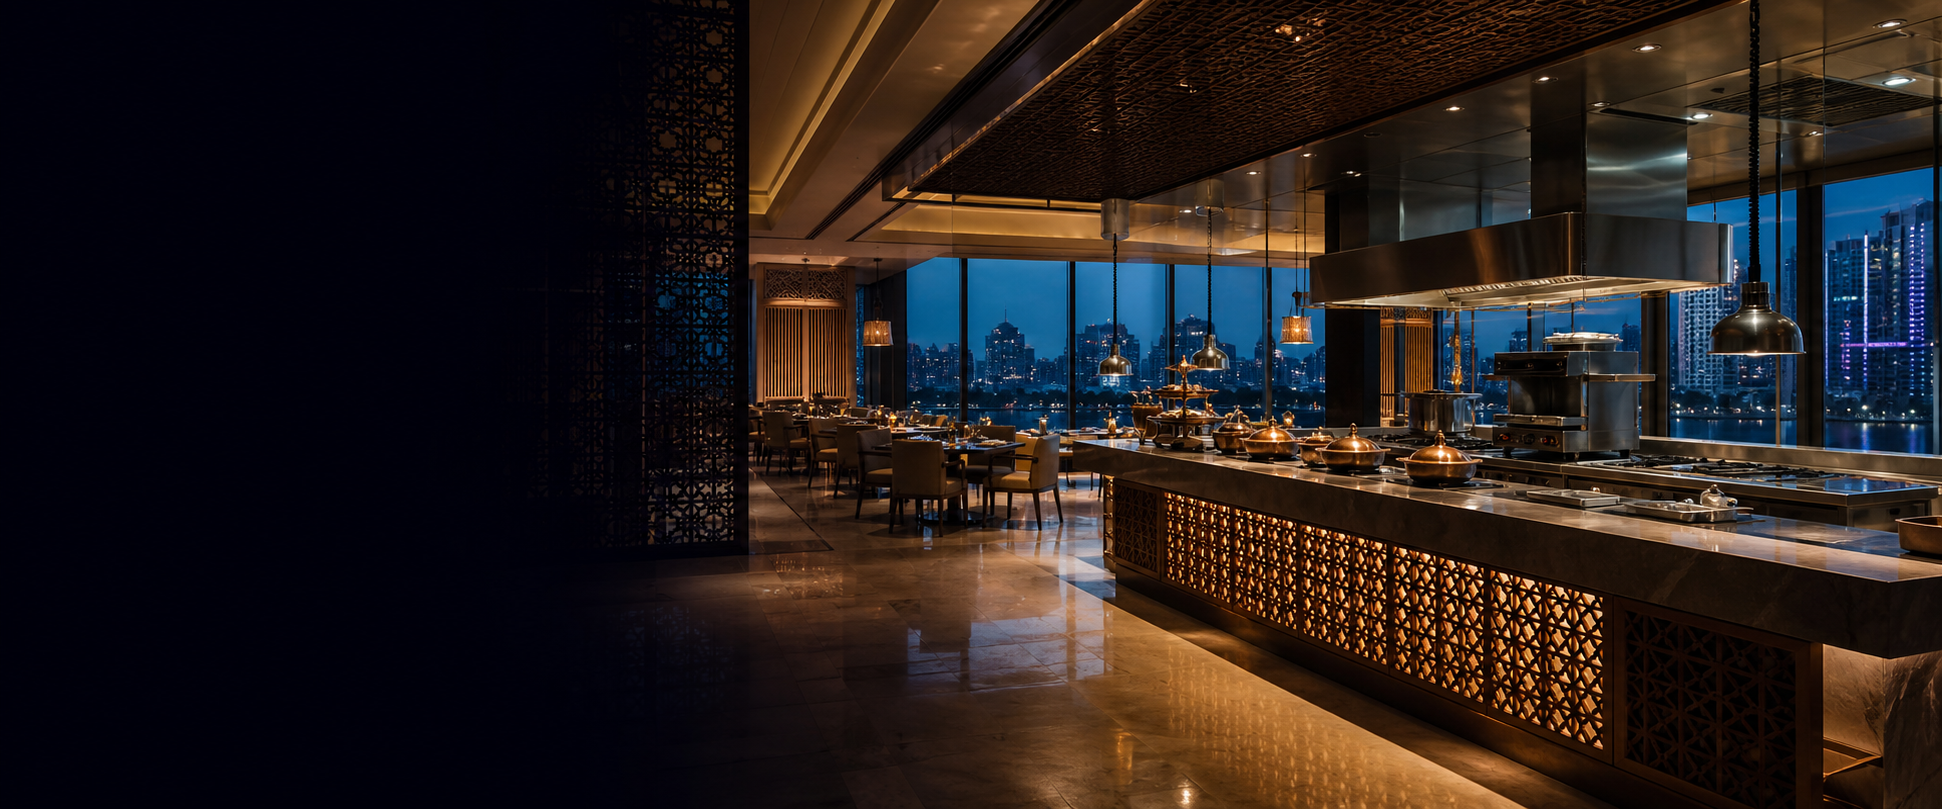
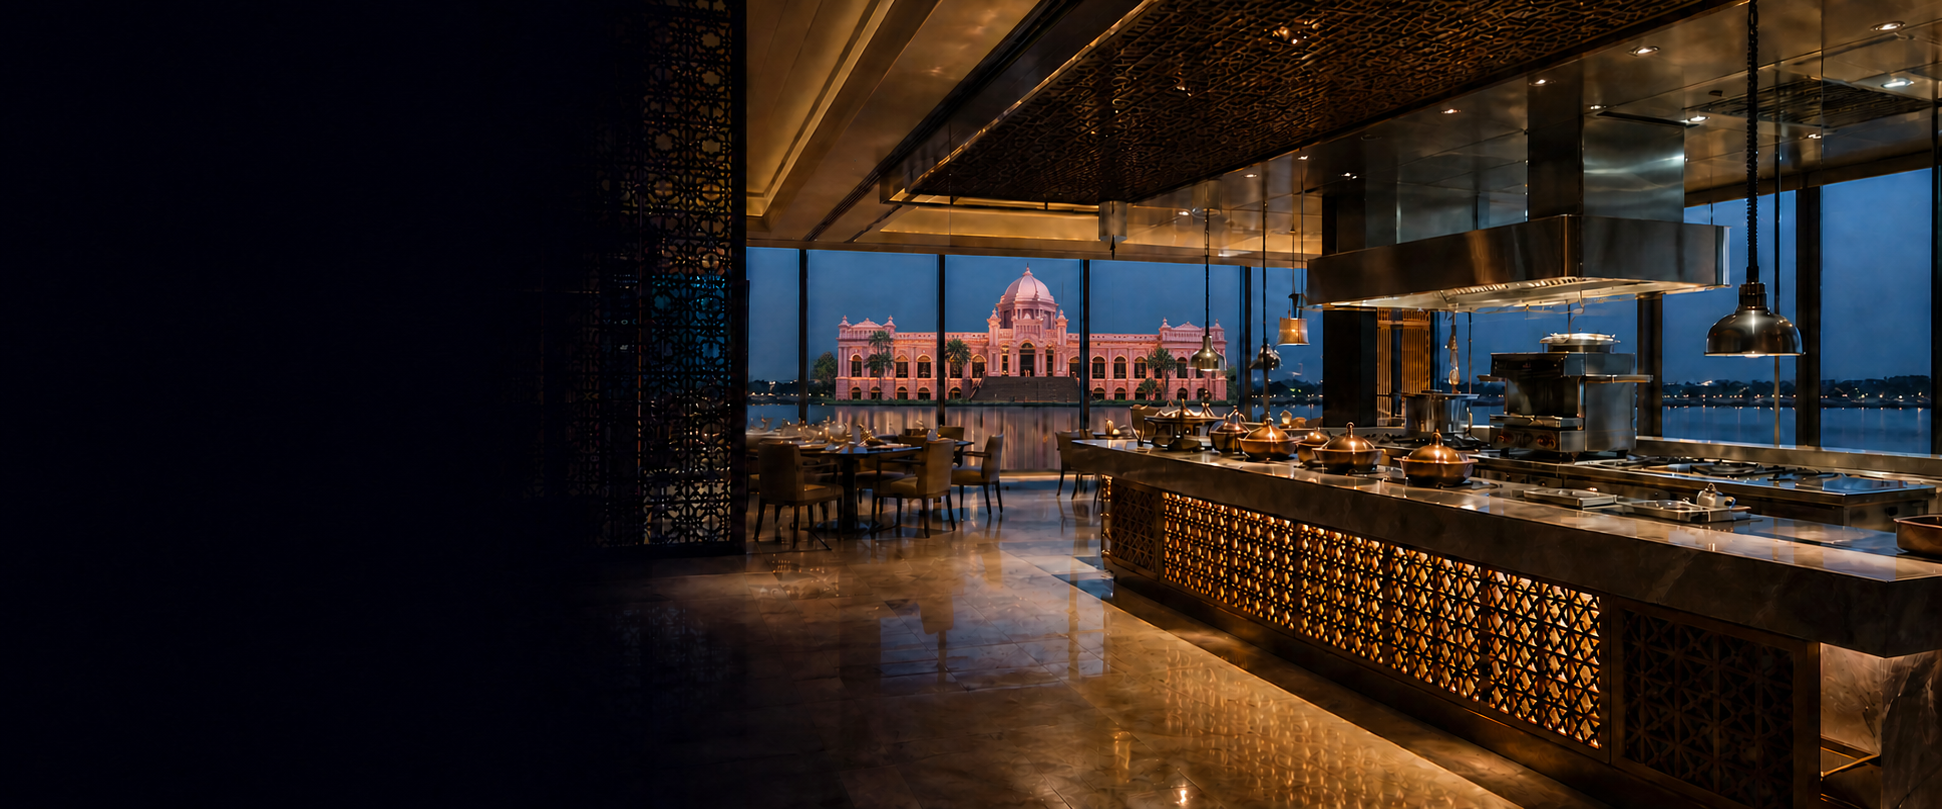
Improve landmark accuracy and hero focus

diff --git a/app/globals.css b/app/globals.css
@@ -42,7 +42,8 @@
 .country-page{--country-hero-image:url('/hero-sri-lanka.png')}.country-bangladesh{--country-hero-image:url('/hero-bangladesh.png')}.country-maldives{--country-hero-image:url('/hero-maldives.png')}.country-dubai{--country-hero-image:url('/hero-dubai.png')}.country-hero:before{inset:-3%;background-image:var(--country-hero-image);background-size:cover;background-position:center;background-repeat:no-repeat;filter:saturate(1.02) contrast(1.04);will-change:transform;animation:countryHeroBreath 18s ease-in-out infinite}.country-name-badge{display:inline-flex;align-items:center;gap:9px;padding:8px 13px;margin-bottom:13px;border:1px solid rgba(226,170,53,.78);border-radius:999px;background:rgba(14,7,48,.62);box-shadow:0 8px 25px rgba(0,0,0,.22);color:#f1bd4c;font-size:11px;font-weight:900;letter-spacing:.18em;text-transform:uppercase;backdrop-filter:blur(8px)}.country-name-badge:before{content:"";width:6px;height:6px;border-radius:50%;background:var(--gold);box-shadow:0 0 12px var(--gold)}@keyframes countryHeroBreath{0%,100%{transform:scale(1.025) translate3d(0,0,0)}50%{transform:scale(1.095) translate3d(-.45%,0,0)}}@media(prefers-reduced-motion:reduce){.country-hero:before{animation:none;transform:scale(1.04)}}@media(max-width:680px){.country-hero:before{background-size:cover;background-position:58% center}}
 
 /* Landmark-focus depth motion: full hospitality scene → local icon → full scene */
-.country-page{--hero-focus-x:24%;--hero-focus-y:34%}.country-bangladesh{--hero-focus-x:69%;--hero-focus-y:40%}.country-maldives{--hero-focus-x:84%;--hero-focus-y:42%}.country-dubai{--hero-focus-x:45%;--hero-focus-y:21%}.country-hero:before{transform-origin:var(--hero-focus-x) var(--hero-focus-y);animation:countryLandmarkFocus 24s cubic-bezier(.42,0,.2,1) infinite}@keyframes countryLandmarkFocus{0%,12%,88%,100%{transform:scale(1.025)}44%,58%{transform:scale(1.22)}}
+.country-page{--hero-focus-x:35%;--hero-focus-y:31%;--hero-pan-x:10%}.country-bangladesh{--hero-focus-x:53%;--hero-focus-y:39%;--hero-pan-x:2%}.country-maldives{--hero-focus-x:84%;--hero-focus-y:42%;--hero-pan-x:0%}.country-dubai{--hero-focus-x:45%;--hero-focus-y:21%;--hero-pan-x:0%}.country-hero:before{transform-origin:var(--hero-focus-x) var(--hero-focus-y);animation:countryLandmarkFocus 24s cubic-bezier(.42,0,.2,1) infinite}@keyframes countryLandmarkFocus{0%,12%,88%,100%{transform:scale(1.025) translate3d(0,0,0)}44%,58%{transform:scale(1.25) translate3d(var(--hero-pan-x),0,0)}}
+@media(max-width:900px){.country-sri-lanka{--hero-focus-x:72%;--hero-focus-y:31%}.country-bangladesh{--hero-focus-x:76%;--hero-focus-y:39%}.country-sri-lanka .country-hero:before{background-position:0 center}.country-bangladesh .country-hero:before{background-position:30% center}}
 
 /* FCSI membership credibility feature */
 .fcsi-feature.fcsi-feature-v2{grid-template-columns:1.2fr .8fr;gap:70px}.fcsi-feature-v2 .fcsi-mark img{width:min(390px,94%);height:150px}@media(max-width:900px){.fcsi-feature.fcsi-feature-v2{grid-template-columns:1fr}.fcsi-feature-v2 .fcsi-mark{grid-column:auto}}
